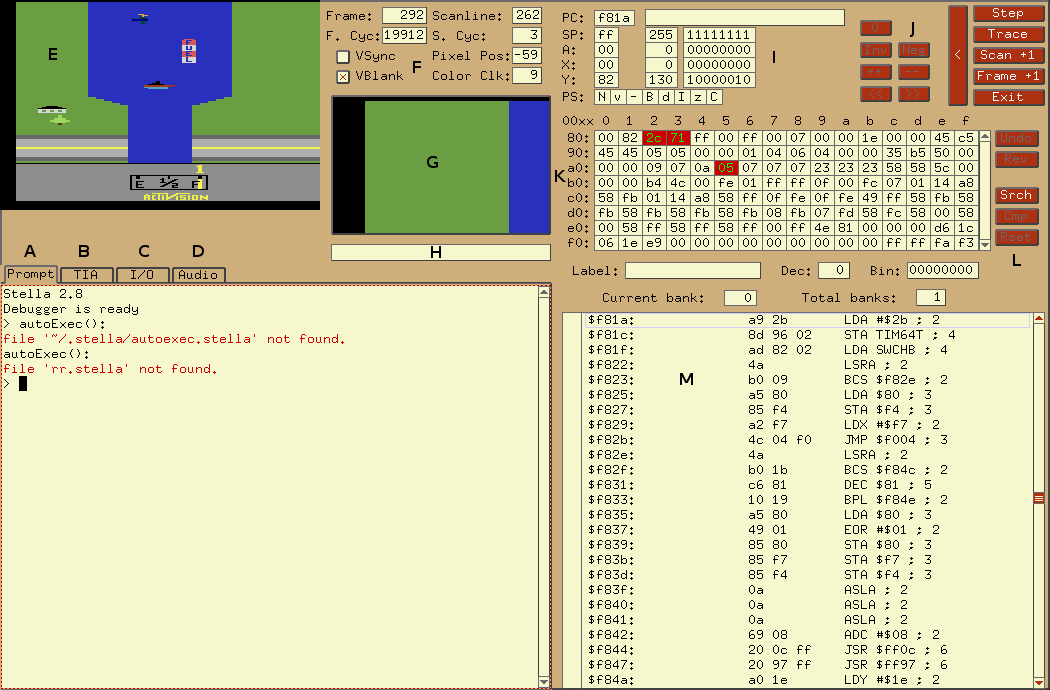
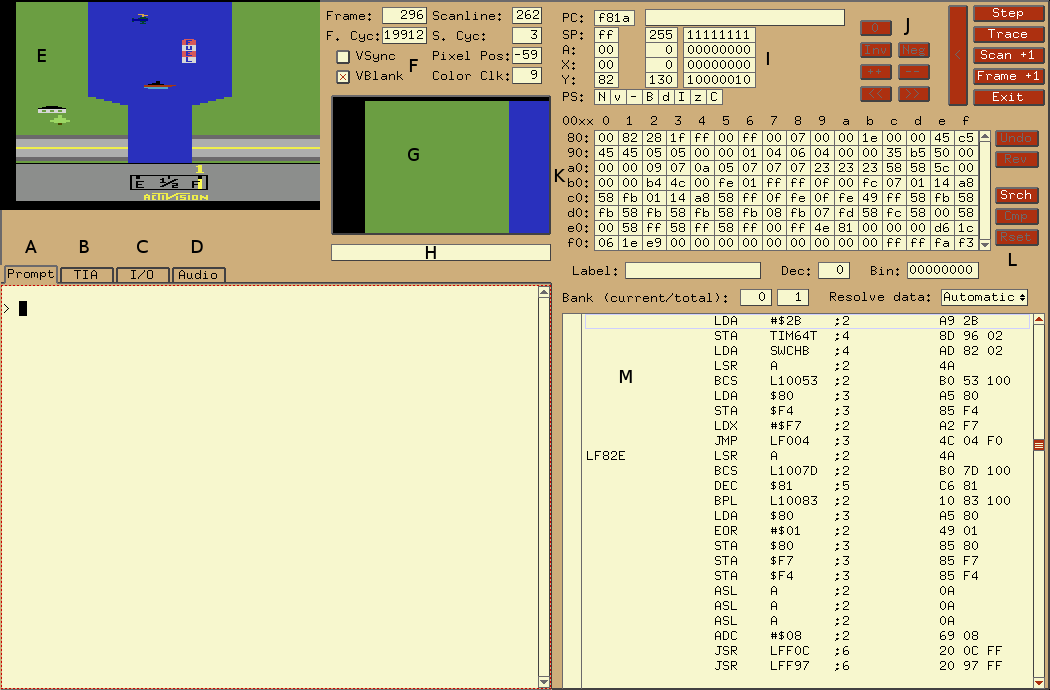
Renamed 'autocode' commandline argument and associated UI item to 'resolvedata', since that more accurately describes what it does. Also, it now accepts arguments as strings (never, always, auto) instead of 0, 1, 2.
Updated main documentation for changes in OSX port 'basedir'.

Updated debugger documentation for recent command additions, and
provided new snapshots where the UI has changed.

It seems to be getting close to a new release - perhaps this
coming Friday.

diff --git a/docs/debugger.html b/docs/debugger.html
@@ -11,7 +11,7 @@ adding new features requested by homebrew developers.  However, even in its
 current form it's still quite powerful, and is able to boast at least one
 feature that no other 2600 debugger has; it's <b>completely</b> cross-platform.</p>
 
-<h2>Here's a list of what the debugger can do so far:</h2>
+<h2>Here's a (non-comprehensive) list of what the debugger can do so far:</h2>
 <ul>
 	<li>Display registers and memory.</li>
 
@@ -401,8 +401,8 @@ zero.  You can remove a cond-break with "delbreakif number", where
 the number comes from "listbreaks".</p>
 
 <p>Any time the debugger is entered due to a trap, breakpoint, or
-conditional break, the reason will be displayed in the status area above
-below the TIA Zoom display.</p>
+conditional break, the reason will be displayed in the status area
+near the TIA Zoom display (area <b>H</b>).</p>
 
 <h4>Functions</h4>
 
@@ -429,17 +429,44 @@ presses both Select and Reset:</p>
 	breakif { gameReset &amp;&amp; gameSelect }
 </pre>
 
+<p>User-defined functions appear in "listfunctions", which shows the label
+and expression for each function.  Functions can be removed with 
+"delfunction label", where the labels come from "listfunctions".</p>
+
 <p>If you've defined a lot of complex functions, you probably will
 want to re-use them in future runs of the debugger. You can save all
 your functions, breakpoints, conditional breaks, and watches with the
 "save" command. If you name your saved file the same as the ROM filename
 and place it in the ROM directory, it'll be auto-loaded next time you
 load the same ROM in Stella. The save file is just a plain text file
-called "filename.stella", so you can edit it and add new functions, etc.
-You can also create a file called "autoexec.stella" which will be loaded
-when the debugger starts, no matter what ROM you have loaded. This file
-should live in the "base directory" (which is the current directory on
-Windows or $HOME/.stella on UNIX), <b>not</b> the ROM directory.</p>
+called "rom_filename.stella", so you can edit it and add new functions, etc.</p>
+<p>You can also create a file called "autoexec.stella" which will be loaded
+when the debugger starts, no matter what ROM you have loaded. The location
+of this file will depend on the version of Stella, as follows:</p>
+
+	<p><table cellpadding="5" border="1">
+		<tr>
+			<td><b>Linux/Unix</b></td>
+			<td><i>~/.stella/autoexec.stella</i></td>
+		</tr>
+		<tr>
+			<td><b>Macintosh</b></td>
+			<td><i>~/Library/Application Support/Stella/autoexec.stella</i></td>
+		</tr>
+		<tr>
+			<td><b>Windows</b></td>
+			<td><i>%APPDATA%\Stella\autoexec.stella</i>&nbsp;&nbsp;&nbsp;
+				<b>OR</b><br>
+				<i>_BASEDIR_\autoexec.stella</i>
+					(if a file named 'basedir.txt' exists in the application
+					directory containing the full pathname for _BASEDIR_)
+			</td>
+		</tr>
+	</table>
+<p>Note that these '.stella' script files are only accessed if you enter
+the debugger at least one during a program run.  This means you can create
+these files, and not worry about slowing down emulation unless you're
+actively using the debugger.</p>
 
 <h4>Built-in Functions</h4>
 
@@ -627,9 +654,6 @@ listfunctions - List user-defined functions
             y - Set Y Register to value xx
             z - Zero Flag: set (0 or 1), or toggle (no arg)
 </pre>
-
-<!-- <p>Commands marked with a * are unimplemented.</p> -->
-<p>Commands marked with a + are partially implemented.</p>
 
 
 <!-- /////////////////////////////////////////////////////////////////////////  -->
@@ -901,38 +925,64 @@ decreased by 1:</p>
 <!-- /////////////////////////////////////////////////////////////////////////  -->
 <br>
 <h2><u>(M)</u> ROM Listing</h2>
-<p>The ROM Widget is a disassembly of the current bank of ROM. If a symbol
-file is loaded, the disassembly will have labels. Even without a symbol
-file, the standard TIA/RIOT labels will still be present.</p>
+<p>The ROM Widget is a disassembly of the current bank of ROM. <strike>If a symbol
+file is loaded, the disassembly will have labels.</strike>.  For now, labels
+from a symbol file are not shown in the disasembly; this feature will return
+in a future release. Even without a symbol file, the standard TIA/RIOT labels
+will still be present.</p>
 <p><img src="graphics/debugger_rom.png"></p>
+
+<p>The top area contains two items:
+<ul>
+<li><b>Bank (current/total)</b>: Shows the current bank in use, and the
+total number of banks.  Note that bank numbers start at 0 (as in most
+programming languages), so '0 / 1' actually means 'the first
+bank of 1 possible bank(s)'.  Due to the way the disassembler works,
+you cannot change banks; the display is for reference only.
+Note that certain ROMs are quite complex, and may only show has having one
+'virtual' bank when their address space can be swapped in and out in many
+different ways.</li>
+<li><b>Resolve data</b>: Informs Distella about the 'resolvedata'
+commandline argument, which says how code and data sections are disassembled.
+If set to 'Never', the entire address space is treated as code.  If set to
+'Always', an attempt is always made to resolve data sections.
+The 'Automatic' setting is a combination of the previous two.  First, an
+attempt is made to resolve data sections.  If this results in the current program
+counter not being present in the disassembly, then a second disassembly is
+done, without resolving data sections.</li>
+</ul>
 
 <p>Each line of disassembly has four fields:</p>
 <ul>
-<li>Breakpoint - This is the area at the far left, to the left of the
-address. Normally there will be nothing there: this indicates that there's
+<li><b>Breakpoint</b>: This is the area at the far left, to the left of the
+labels. Normally there will be nothing there: this indicates that there's
 no breakpoint set at that address. You can set and clear breakpoints by
 clicking in this area. When a breakpoint is set, there will be a
 red circle in this area. These are the same breakpoints as used
 by the "break" command, <b>not</b> the conditional "breakif" breakpoints
 (which makes sense: cond-breaks can break on any condition, the Program
 Counter isn't necessarily involved).</li>
-<li>Address (which may be a label or a hex address)</li>
-<li>Hex bytes. These are the raw machine code bytes for the instruction.</li>
-<li>Instruction. This is a standard 6502 mnemonic (possibly with operand).
+<li><b>Labels</b>: For now, only those generated by Distella, not ones from a
+DASM symbol file or any labels created by the user.</li>
+<li><b>Instruction</b>: This is a standard 6502 mnemonic (possibly with operand).
 This field also contains the cycle count for the instruction (separated by a
 semicolon).</li>
+<li><b>Hex bytes</b>: These are the raw machine code bytes for the instruction.
+Note that only instructions that have been fully disassembled will have
+bytes in this field.</li>
 </ul>
 
 <p>The 6502 mnemonic will be UPPERCASE for all standard instructions,
-or lowercase for "illegal" 6502 instructions (like "dcp"). Since there's
-no way to tell code from data, you'll likely see a lot of illegal opcodes
-if you scroll to a data table in ROM.</p>
+or lowercase for "illegal" 6502 instructions (like "dcp"). If resolving
+of data sections has been disabled for any reason, you'll likely see a lot
+of illegal opcodes if you scroll to a data table in ROM.</p>
 
+<!-- TODO - is this true any longer?
 <p>Beware: the cycle counts don't take into account any penalty cycles
 for crossing page boundaries. All branches are shown as 2 cycles, which
 is how long they take if the branch isn't taken. Branches that are
 taken will actually take 3 cycles (plus a penalty cycle if they cross
-page boundaries).</p>
+page boundaries).</p> -->
 
 <p>You can scroll through the disassembly with the mouse or keyboard. To
 center the display on the current PC, press the Space bar.</p>
@@ -944,40 +994,44 @@ scroll to the current PC location.</p>
 <p>Even though ROM is supposed to be Read Only Memory, this is an
 emulator: you can change ROM all you want within the debugger.  The hex
 bytes in the ROM Widget are editable. Double-click on them to edit
-them. When you're done, press Enter to accept the changes or Escape to
-cancel them.  Any time you edit ROM, there may be a short pause while
-the ROM Widget disassembles the current bank again.</p>
-
-<p>Speaking of banks: Above the disassembly there's an indicator for the
-current bank and total number of banks. If there's more than one bank,
-you can manually switch banks by double-clicking the bank number and enter
-a new number (or using the shortcuts keys for inputboxes as described
-in section (J). This won't work if the ROM only has one bank, of course.</p>
+them. When you're done, press Enter to accept the changes (in which case
+the cart will be re-disasembled) or Escape to cancel them.
+Note that only instructions that have been fully disassembled
+can be edited.  In particular, blank lines or lines with '.byte' directives
+cannot be edited.  If you wish to edit the latter, then the 'Determine code'
+item should be set to 'Never' first.  Also note that certain ROMs can have
+sections of address space swapped in and out dynamically.  As such, changing
+the contents of a certain address will change the area pointed to <b>at
+that time</b>.  In particular, modifying an address that points to internal
+RAM will change the RAM, not the underlying ROM.  A future release may 
+graphically differentiate between RAM and ROM areas.</p>
 
 <p>The ROM listing also contains a context menu, accessible by right-clicking
 anywhere in the listing:</p>
 <p><img src="graphics/debugger_romcmenu.png"></p>
-<p>Currently, there are two options:</p>
+<p>Currently, there are three options:</p>
 <ul>
-	<li><b>Save ROM</b>: A textbox will appear for you to enter filename,
+<li><b>Save ROM</b>: A textbox will appear for you to enter filename,
 and then the ROM will be saved. Note that the filename is considered
 relative to the <b>current</b> directory, not the ROM or base directory.
 You can enter a full path, though, in which case it doesn't matter.</li>
-	<li><b>Set PC</b>: Set the Program Counter to the address of the
+
+<li><b>Set PC</b>: Set the Program Counter to the address of the
 disassembly line where the mouse was clicked.</li>
+
+<li><b>RunTo PC</b>: Single-step through code until the Program Counter
+matches the address of the disassembly line where the mouse was clicked.</li>
 </ul>
 
 <h3>Limitations</h3>
 
 <ul>
 
-<li>The ROM Widget only works on ROM. If your game runs code from RAM,
-the ROM Widget will get "confused" while the PC is pointing to RAM. It
-will highlight instructions in ROM instead. If the PC points to (for
-example) $80, the ROM Widget will display the instruction at $F080
-instead. No permanent harm is done: once your RAM routine returns, the
-ROM Widget will work normally again. You can still disassemble RAM with
-the "disasm" command from the Prompt.</li>
+<li>The ROM Widget only works on ROM. If your game runs code from zero-page
+RAM, the code from RAM will not be shown, and the ROM Widget will not highlight
+any instructions.  Once your RAM routine returns, the ROM Widget will work
+normally again. You can still disassemble RAM with the "disasm" command from
+the Prompt.</li>
 
 <li>The standard VCS memory map has the cartridge port at locations
 $F000-$FFFF.  However, not all the address lines exist on a 6507, so
@@ -986,15 +1040,11 @@ space ($1000, $3000, up to $D000).  Some programmers find it easier
 to think of the different banks of ROM as being at different addresses
 (such as: Bank 0 at $D000 and bank 1 at $F000). When such a ROM runs,
 the Program Counter can point to one of the mirrors instead of the main
-area at $F000. This is perfectly OK, and everything works just fine,
-except that the ROM Widget will show the "real" address instead of the
-mirrored one. For instance, if the PC contains $D010, the ROM Widget
-will highlight the instruction at $F010. This is the same instruction,
-since $D010 reads the same ROM location as $F010. However, the breakpoint
-indicator may be wrong: breakpoints are set on actual addresses. If
-there were a breakpoint set at $F010, it wouldn't be triggered by the
-PC hitting $D010 (but the ROM Widget will show a breakpoint indicator
-if the PC hits $D010, even though it shouldn't)</li>
+area at $F000. This is perfectly OK, and everything works just fine.
+However, breakpoints are set on actual addresses. If there were a breakpoint
+set at $F010, and the bank later switched to mirror $D000, the breakpoint
+will not be shown, and will not break on $D010, even though it's technically
+the same address.</li>
 
 </ul>
 
@@ -1014,7 +1064,7 @@ advance.  The rewind buffer is currently 100 levels deep.</p>
 
 <p>When you use these buttons, the prompt doesn't change. This means the
 status lines with the registers and disassembly will be "stale". You
-can update them just by pressing Enter in the prompt.</p>
+can update them just by re-running the relevant commands in the prompt.</p>
 
 <p>You can also use the Step, Trace, Scan+1, Frame+1 and Rewind buttons from
 anywhere in the GUI via the keyboard, with Alt-S, Alt-T, Alt-L, Alt-F and Alt-R.</p>
@@ -1146,11 +1196,7 @@ but it helps to know at least a little about 6502 programming.</p>
 
 <p>Now, try the same techniques on some other ROM image (try Pac-Man). Some
 games store (lives+1) or (lives-1) instead of the actual number,
-so try searching for those if you can't seem to make it work. Also,
-some cartridge types include their own RAM. The debugger doesn't (yet)
-know how to access on-cartridge RAM, so you'll have to use the "bank" and
-"ram" commands to manually search the address space for the value you're
-looking for (future versions of the debugger will be smarter about this).</p>
+so try searching for those if you can't seem to make it work.</p>
 
 <p>If you successfully patch a ROM in the debugger, but the saved version
 won't work, or looks funny, you might need to add an entry to the

diff --git a/docs/index.html b/docs/index.html
@@ -1038,7 +1038,7 @@
 		</tr>
 
 		<tr>
-			<td><pre>-autocode &lt;0|1|2&gt;</pre></td>
+			<td><pre>-resolvedata &lt;never|always|auto&gt;</pre></td>
 			<td>Try to differentiate between code vs. data sections in the
       disassembler.  See the Debugger section for more information.</td>
 		</tr>
@@ -2514,13 +2514,13 @@
 	<p><table cellpadding="5" border="1">
 		<tr>
 			<td><b>Linux/Unix</b></td>
-			<td><i>$HOME/.stella/atarivox_eeprom.dat<br>
-				$HOME/.stella/savekey_eeprom.dat</i></td>
+			<td><i>~/.stella/atarivox_eeprom.dat<br>
+				~/.stella/savekey_eeprom.dat</i></td>
 		</tr>
 		<tr>
 			<td><b>Macintosh</b></td>
-			<td><i>$HOME/.stella/atarivox_eeprom.dat<br>
-				$HOME/.stella/savekey_eeprom.dat</i></td>
+			<td><i>~/Library/Application Support/Stella/atarivox_eeprom.dat<br>
+				~/Library/Application Support/Stella/savekey_eeprom.dat</i></td>
 		</tr>
 		<tr>
 			<td><b>Windows</b></td>
@@ -2641,7 +2641,7 @@
 		</tr>
 		<tr>
 			<td><b>Macintosh</b></td>
-			<td>Not applicable; settings are saved in <i>$HOME/Library/Preferences/StellaOSX.plist</i></td>
+			<td>Not applicable; settings are saved in <i>~/Library/Preferences/net.sourceforge.Stella.plist</i></td>
 		</tr>
 		<tr>
 			<td><b>Windows</b></td>
@@ -2743,7 +2743,7 @@ Ms Pac-Man (Stella extended codes):
 		</tr>
 		<tr>
 			<td><b>Macintosh</b></td>
-			<td><i>$HOME/.stella/stella.cht</i></td>
+			<td><i>~/Library/Application Support/Stella/stella.cht</i></td>
 		</tr>
 		<tr>
 			<td><b>Windows</b></td>
@@ -2867,6 +2867,7 @@ Ms Pac-Man (Stella extended codes):
 				<tr><td>2IN1 &#185;</td><td>4-32K Multicart (2 games) </td></tr>
 				<tr><td>4IN1 &#185;</td><td>8-32K Multicart (4 games) </td></tr>
 				<tr><td>8IN1 &#185;</td><td>16-64K Multicart (8 games) </td></tr>
+				<tr><td>16IN1 &#185;</td><td>32-128K Multicart (16 games) </td></tr>
 				<tr><td>32IN1 &#185;</td><td>64-128K Multicart (32 games) </td></tr>
 				<tr><td>2K </td><td>64-2048 byte Atari </td></tr>
 				<tr><td>3E </td><td>32K Tigervision </td></tr>
@@ -3000,7 +3001,7 @@ Ms Pac-Man (Stella extended codes):
 		</tr>
 		<tr>
 			<td><b>Macintosh</b></td>
-			<td><i>$HOME/.stella/stella.pro</i></td>
+			<td><i>~/Library/Application Support/Stella/stella.pro</i></td>
 		</tr>
 		<tr>
 			<td><b>Windows</b></td>
@@ -3069,7 +3070,7 @@ Ms Pac-Man (Stella extended codes):
 		</tr>
 		<tr>
 			<td><b>Macintosh</b></td>
-			<td><i>$HOME/.stella/stella.pal</i></td>
+			<td><i>~/Library/Application Support/Stella/stella.pal</i></td>
 		</tr>
 		<tr>
 			<td><b>Windows</b></td>
